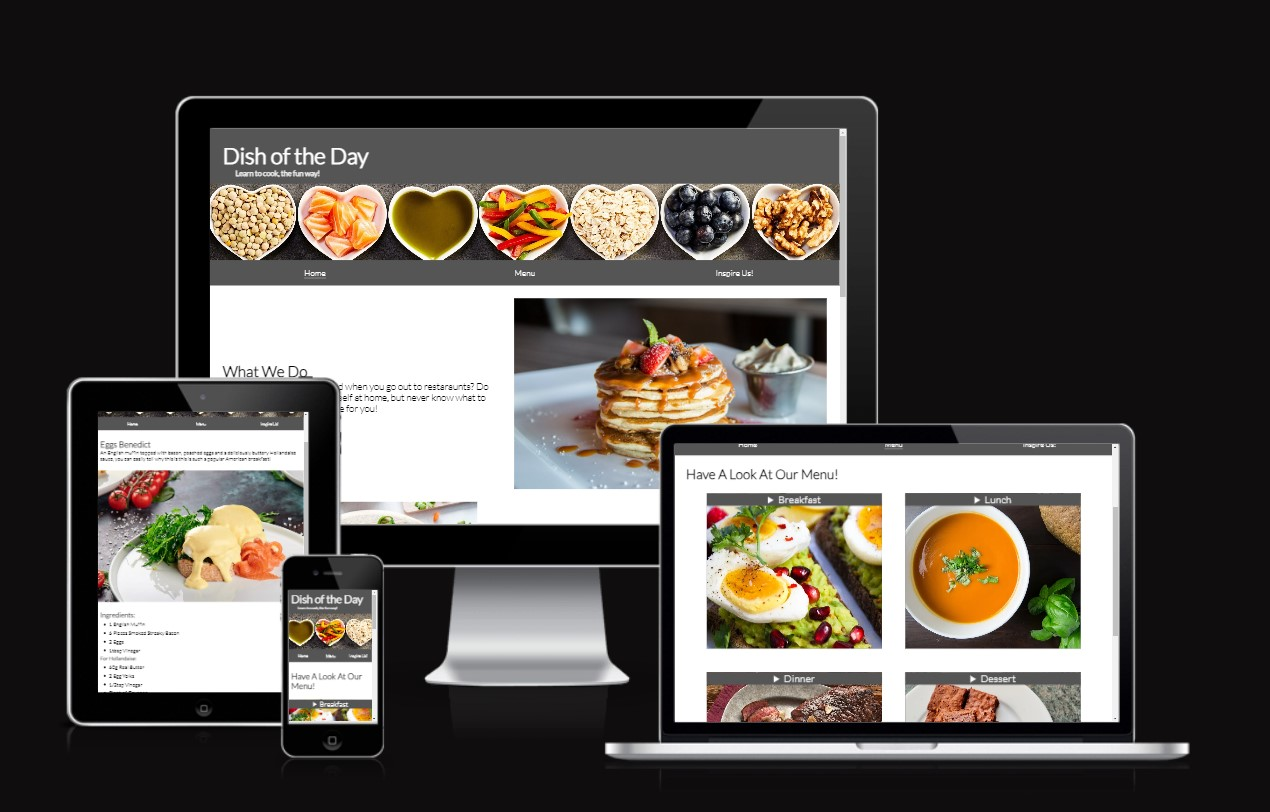
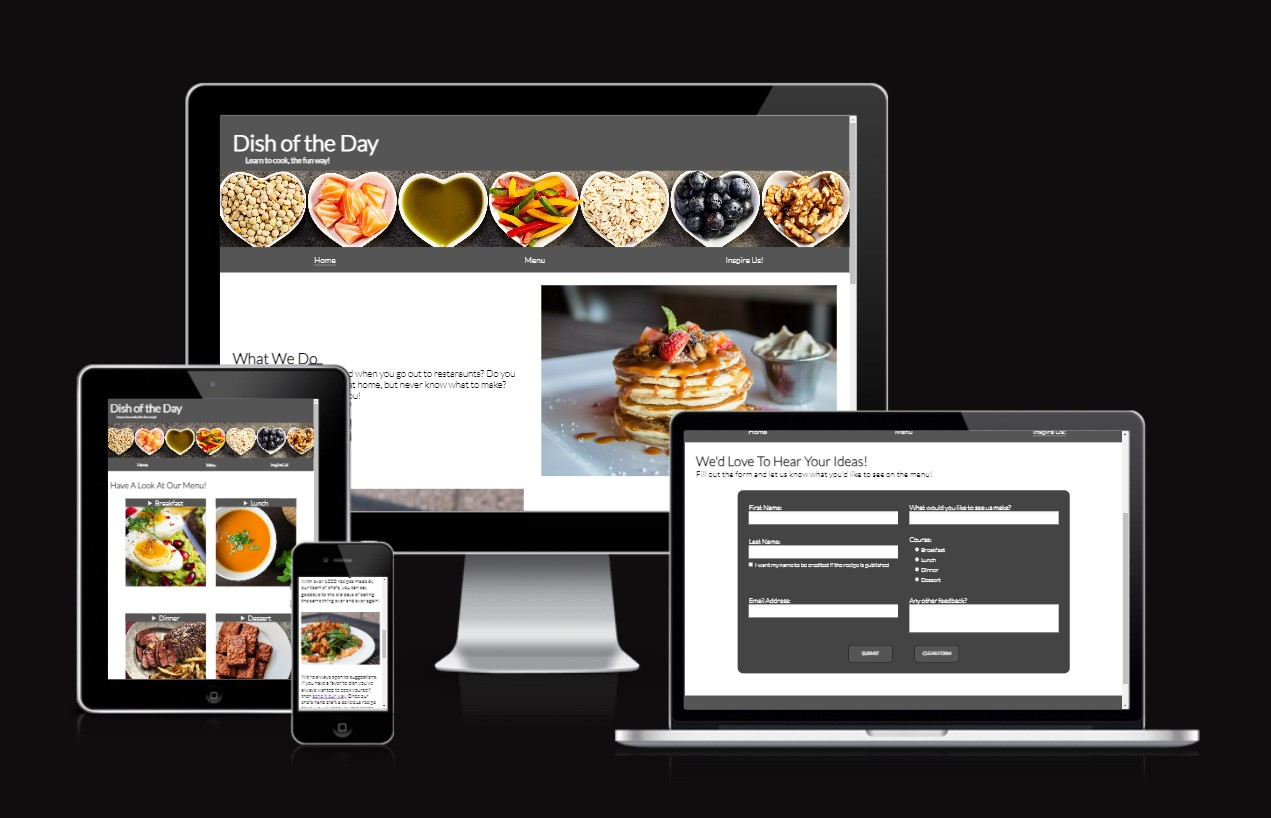
update: images in readme to match new index layout

diff --git a/README.md b/README.md
@@ -85,7 +85,7 @@ The site can be found here: <https://shanebyrne0963.github.io/dish-of-the-day/>
   - The description is broken up into smaller blocks of text of only 1-2 sentences to make the text easier to read.
   - At the bottom of the page, the user is presented with a button to be taken to the menu page.
 
-![The home page](assets/images/readme/features/home.jpg)
+![The home page](assets/images/readme/features/index.jpg)
 
 - **The Menu Page**
 
